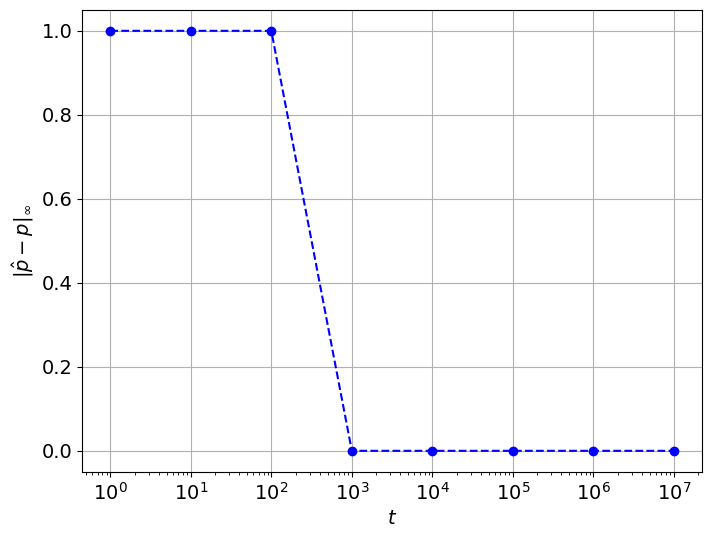
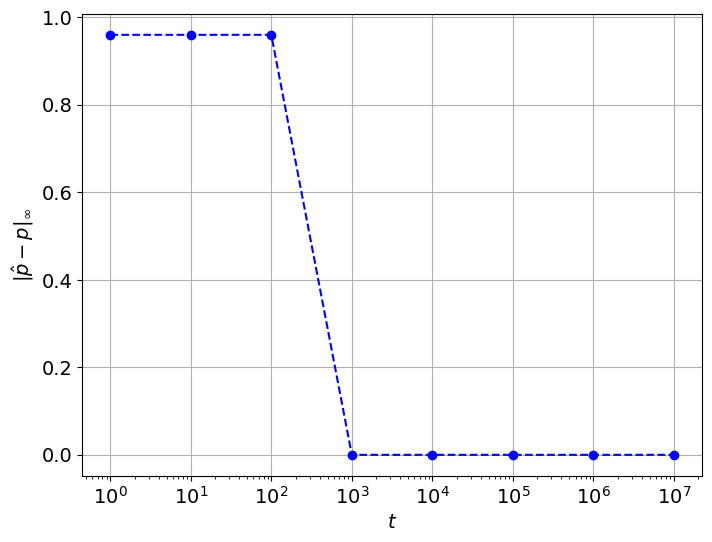
fix

diff --git a/1/section4.py b/1/section4.py
@@ -8,66 +8,14 @@ from python.policy import EstimatedQLearningPolicy, QLearningPolicy, RandomUnifo
 from python.components import DeterministicDomain, StochasticDomain, State
 from python.simulation import Simulation
 from python.constants import *
-
-plt.rcParams['font.size'] = 14
-
-flags = {
-    'bbox_inches': 'tight'
-}
-
-def get_max_diff_r(domain, mdp):
-    """Infinity norm of r"""
-    n, m = domain.g.shape
-    max_val = -1
-    for x in range(n):
-        for y in range(m):
-            for action in domain.actions:
-                diff = abs(mdp.r(State(x, y), action) - domain.r(State(x, y), action))
-                if diff > max_val:
-                    max_val = diff
-
-    return max_val
-
-def get_max_diff_p(domain, mdp):
-    """Infinity norm of p"""
-    n, m = domain.g.shape
-    max_val = -1
-    for x in range(n):
-        for y in range(m):
-            for action in domain.actions:
-                for x_given in range(n):
-                    for y_given in range(m):
-                        diff = abs(mdp.p(State(x, y), State(x_given, y_given), action) - domain.p(State(x, y), State(x_given, y_given), action))
-                        if diff > max_val:
-                            max_val = diff
-
-    return max_val
-
-def get_max_diff_q(Q_hat, Q):
-    """Infinity norm of q"""
-    max_val = np.max(np.abs(Q_hat - Q))
-
-    return max_val
-
-def plot(x, y, estimate:str, file_name:str):
-    fig = plt.figure(figsize=(8, 6))
-    plt.plot(x, y, '--bo')
-    plt.xscale('log')
-    plt.xlabel('$t$')
-    plt.ylabel(f'$\\left\\| \\hat{{}} - {{}} \\right\\|_\\infty$'.format(estimate, estimate))
-    plt.grid()
-    plt.savefig("figures/{}".format(file_name), **flags)
-
-    plt.close()
-
-
+from python.utils import *
 
 if __name__ == '__main__':
     np.random.seed(42)
     epsilon = 1e-3
     N = math.ceil(math.log((epsilon / (2 * Br)) * (1. - GAMMA) ** 2, GAMMA))
     initial_state = State(0, 3)
-    show_latex = False
+    show_latex = True
 
     deterministic_domain = DeterministicDomain(G)
     stochastic_domain = StochasticDomain(G, W[0])
@@ -80,11 +28,7 @@ if __name__ == '__main__':
     Q_policy_deterministic = QLearningPolicy(deterministic_domain, 0.99, N)
     Q_policy_stochastic = QLearningPolicy(stochastic_domain, 0.99, N)
 
-
-
     T = [1, 10, 10**2, 10**3, 10**4, 10**5, 10**6, 10**7]
-
-
 
     print("N =", N)
 
@@ -99,12 +43,12 @@ if __name__ == '__main__':
         P_diff = []
         Q_diff = []
 
+        simulation = Simulation(domain, policy, initial_state, 3)
+
+        h = simulation.simulate(T[-1])
+
         for t in T:
-            mdp = MDP(n, m, len(domain.actions))
-            simulation = Simulation(domain, policy, initial_state, 10)
-            for _ in range(t):
-                state, action, reward, next_state = simulation.step()
-                mdp.update(state, action, reward, next_state)
+            mdp = MDP(n, m, len(domain.actions), h[:t])
 
             estimated_Q_policy = EstimatedQLearningPolicy(domain, mdp, 0.99, N)
 

diff --git a/1/python/system_identification.py b/1/python/system_identification.py
@@ -3,32 +3,43 @@ import numpy as np
 from python.components import action_to_index
 
 class MDP:
-    def __init__(self, state_space_x, state_space_y, action_space):
-        self.N = np.zeros((state_space_x, state_space_y, action_space))
-        self.N_2 = np.zeros((state_space_x, state_space_y, action_space, state_space_x, state_space_y))
+    """Estimation of an mdp given a trajectory"""
+    def __init__(self, state_space_x, state_space_y, action_space, trajectory):
+        self.N = np.zeros((state_space_x, state_space_y, action_space, state_space_x, state_space_y))
         self.R = np.zeros((state_space_x, state_space_y, action_space))
         self.Q = np.zeros((state_space_x, state_space_y, action_space))
 
+        for state, action, reward, next_state in trajectory:
+            self._update(state, action, reward, next_state)
 
-    def update(self, state, action, reward, next_state):
+        self.state_space_x = state_space_x
+        self.state_space_y = state_space_y
+
+
+    def _update(self, state, action, reward, next_state):
         action = action_to_index(action)
 
-        self.N[state.x][state.y][action] += 1
-        self.N_2[state.x][state.y][action][next_state.x][next_state.y] += 1
+        self.N[state.x][state.y][action][next_state.x][next_state.y] += 1
         self.R[state.x][state.y][action] += reward
 
+    # These two functions could be optimize by using matrix form,
+    # but it works quite well in that way
+    def p(self, state, given_state, given_action):
+        N_2 = self.N.sum(axis=(-1,-2))
+
+        given_action = action_to_index(given_action)
+        
+        if N_2[given_state.x, given_state.y, given_action] == 0:
+            return 1/(self.state_space_y * self.state_space_x)
+
+        return (self.N[given_state.x, given_state.y, given_action, state.x, state.y] / N_2[given_state.x, given_state.y, given_action])
+
     def r(self, state, action):
-        miss = self.N == 0
-        self.N[miss] = 1
+        N_2 = self.N.sum(axis=(-1,-2))
 
         action = action_to_index(action)
 
-        return (self.R/self.N)[state.x][state.y][action]
+        if self.R[state.x, state.y, action] == 0:
+            return 0
 
-    def p(self, state, given_state, given_action):
-        miss = self.N == 0
-        self.N[miss] = 1
-
-        given_action = action_to_index(given_action)
-
-        return (self.N_2[given_state.x, given_state.y, given_action, state.x, state.y] / self.N[given_state.x, given_state.y, given_action])
+        return (self.R[state.x][state.y][action]/N_2[state.x][state.y][action])

diff --git a/1/python/utils.py b/1/python/utils.py
@@ -1,0 +1,55 @@
+from python.components import State
+import numpy as np
+import matplotlib.pyplot as plt
+
+plt.rcParams['font.size'] = 14
+
+flags = {
+    'bbox_inches': 'tight'
+}
+
+def get_max_diff_r(domain, mdp):
+    """Infinity norm of r"""
+    n, m = domain.g.shape
+    max_val = -1
+    for x in range(n):
+        for y in range(m):
+            for action in domain.actions:
+                diff = abs(mdp.r(State(x, y), action) - domain.r(State(x, y), action))
+                if diff > max_val:
+                    max_val = diff
+
+    return max_val
+
+def get_max_diff_p(domain, mdp):
+    """Infinity norm of p"""
+    n, m = domain.g.shape
+    max_val = -1
+    for x in range(n):
+        for y in range(m):
+            for action in domain.actions:
+                for x_given in range(n):
+                    for y_given in range(m):
+                        diff = abs(mdp.p(State(x, y), State(x_given, y_given), action) - domain.p(State(x, y), State(x_given, y_given), action))
+                        if diff > max_val:
+                            max_val = diff
+
+    return max_val
+
+def get_max_diff_q(Q_hat, Q):
+    """Infinity norm of q"""
+    max_val = np.max(np.abs(Q_hat - Q))
+
+    return max_val
+
+
+def plot(x, y, estimate:str, file_name:str):
+    fig = plt.figure(figsize=(8, 6))
+    plt.plot(x, y, '--bo')
+    plt.xscale('log')
+    plt.xlabel('$t$')
+    plt.ylabel(f'$\\left\\| \\hat{{}} - {{}} \\right\\|_\\infty$'.format(estimate, estimate))
+    plt.grid()
+    plt.savefig("figures/{}".format(file_name), **flags)
+
+    plt.close()

diff --git a/1/python/simulation.py b/1/python/simulation.py
@@ -16,3 +16,11 @@ class Simulation():
         prev_state = self.state
         self.state, reward = self.domain.interact(self.state, action)
         return prev_state, action, reward, self.state
+
+    def simulate(self, T):
+        h = []
+        for t in range(T):
+            state, action, reward, next_state = self.step()
+            h.append((state, action, reward, next_state))
+
+        return h
